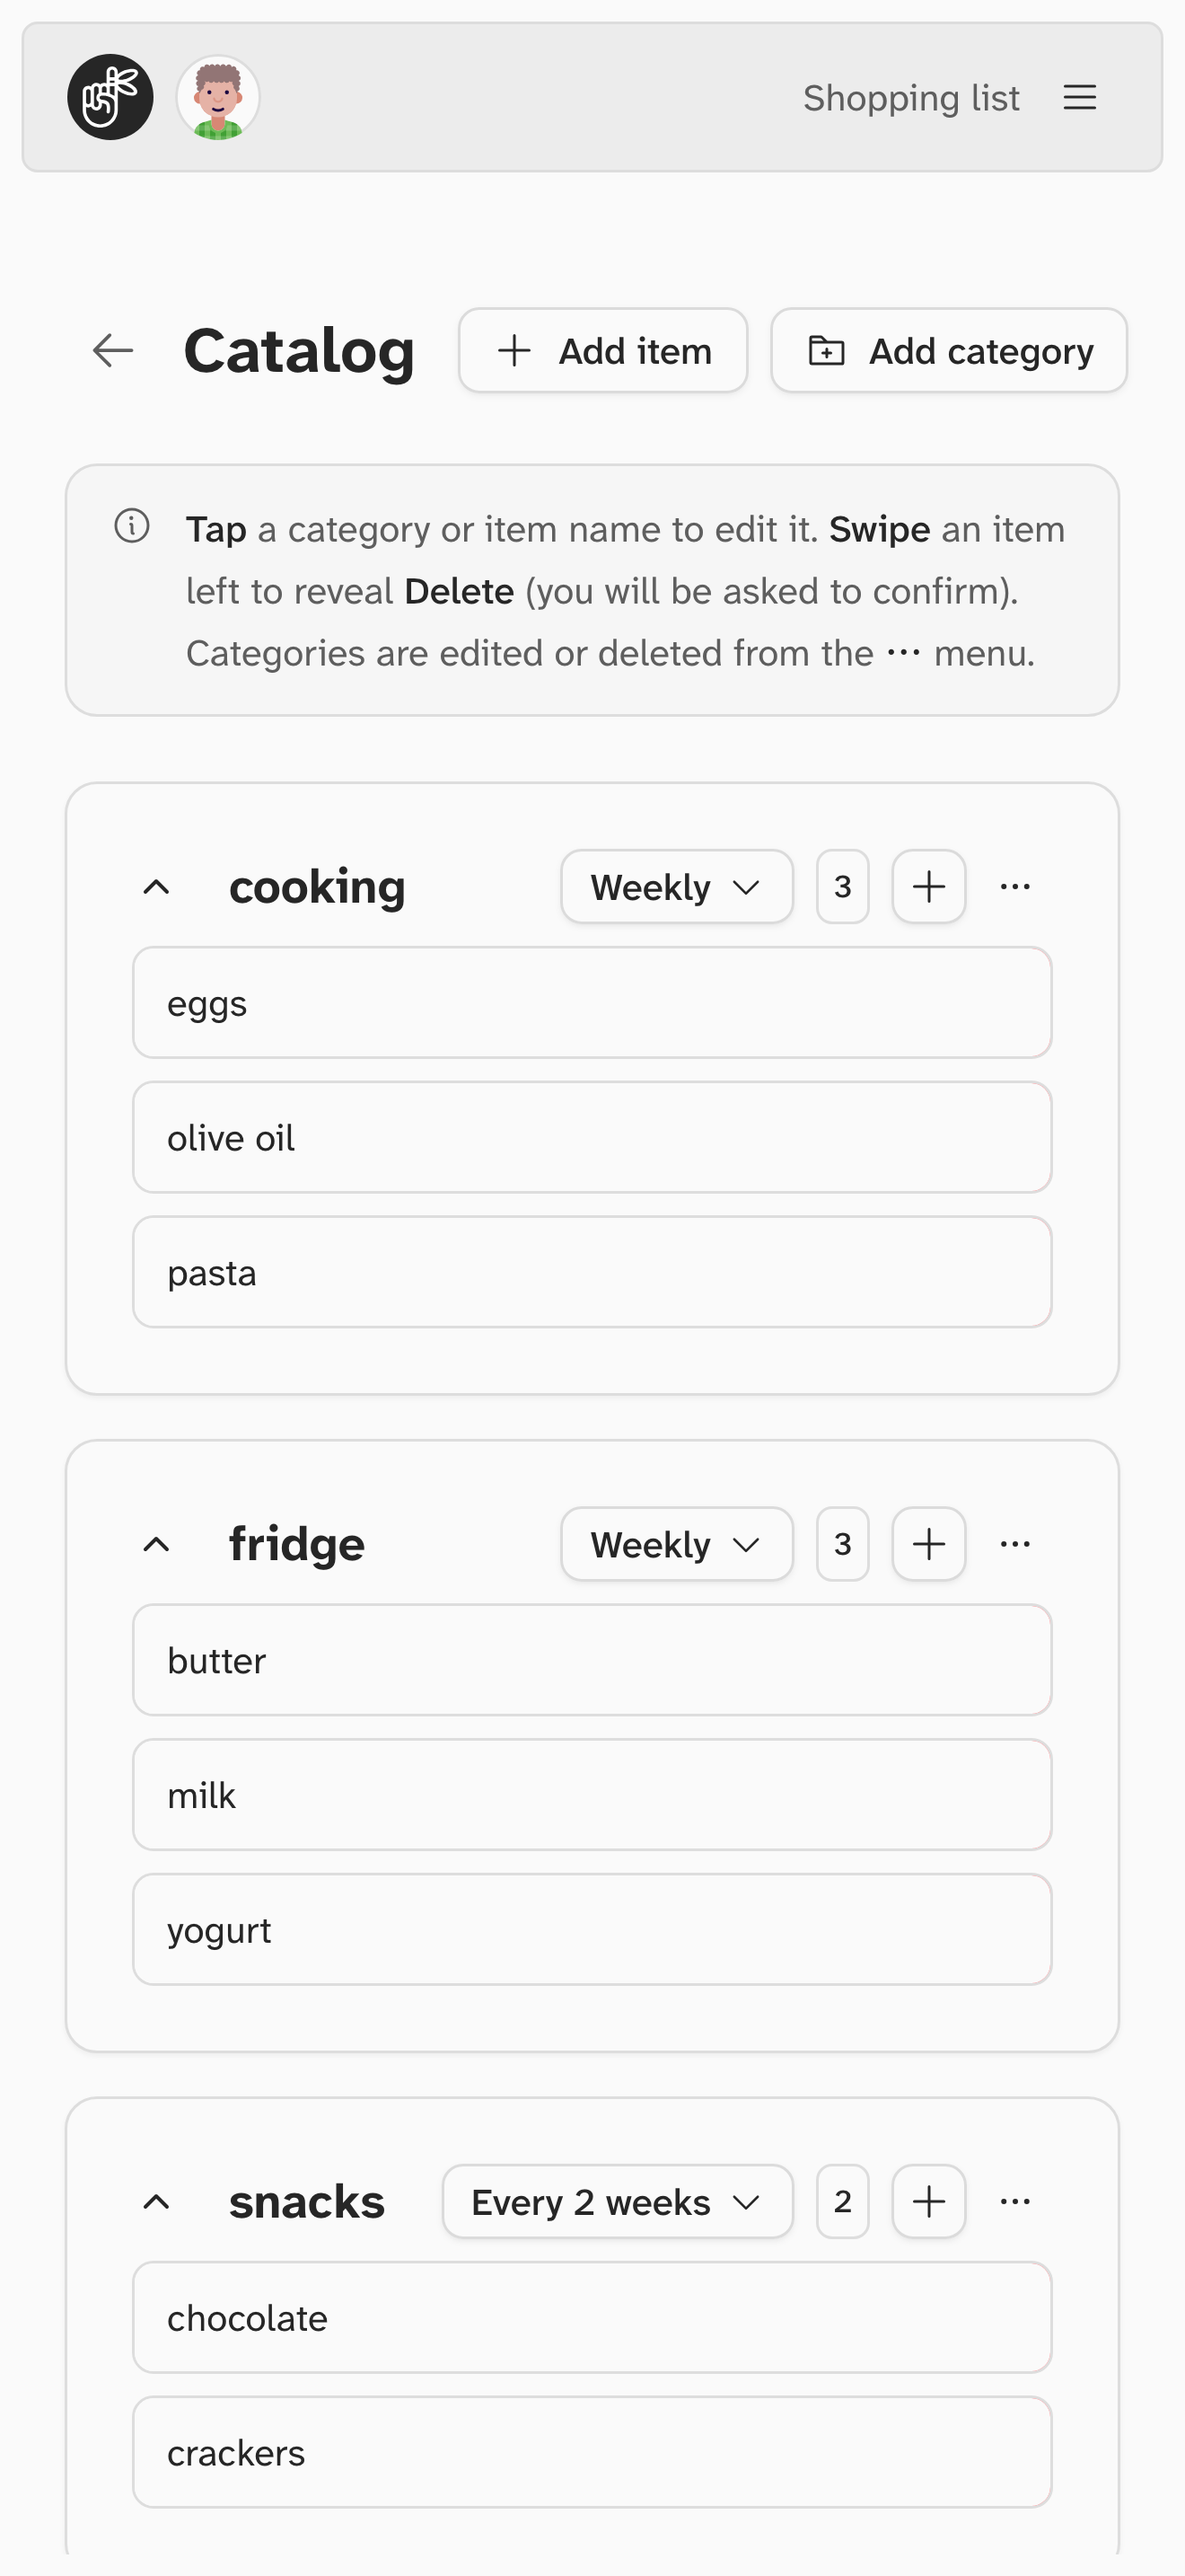
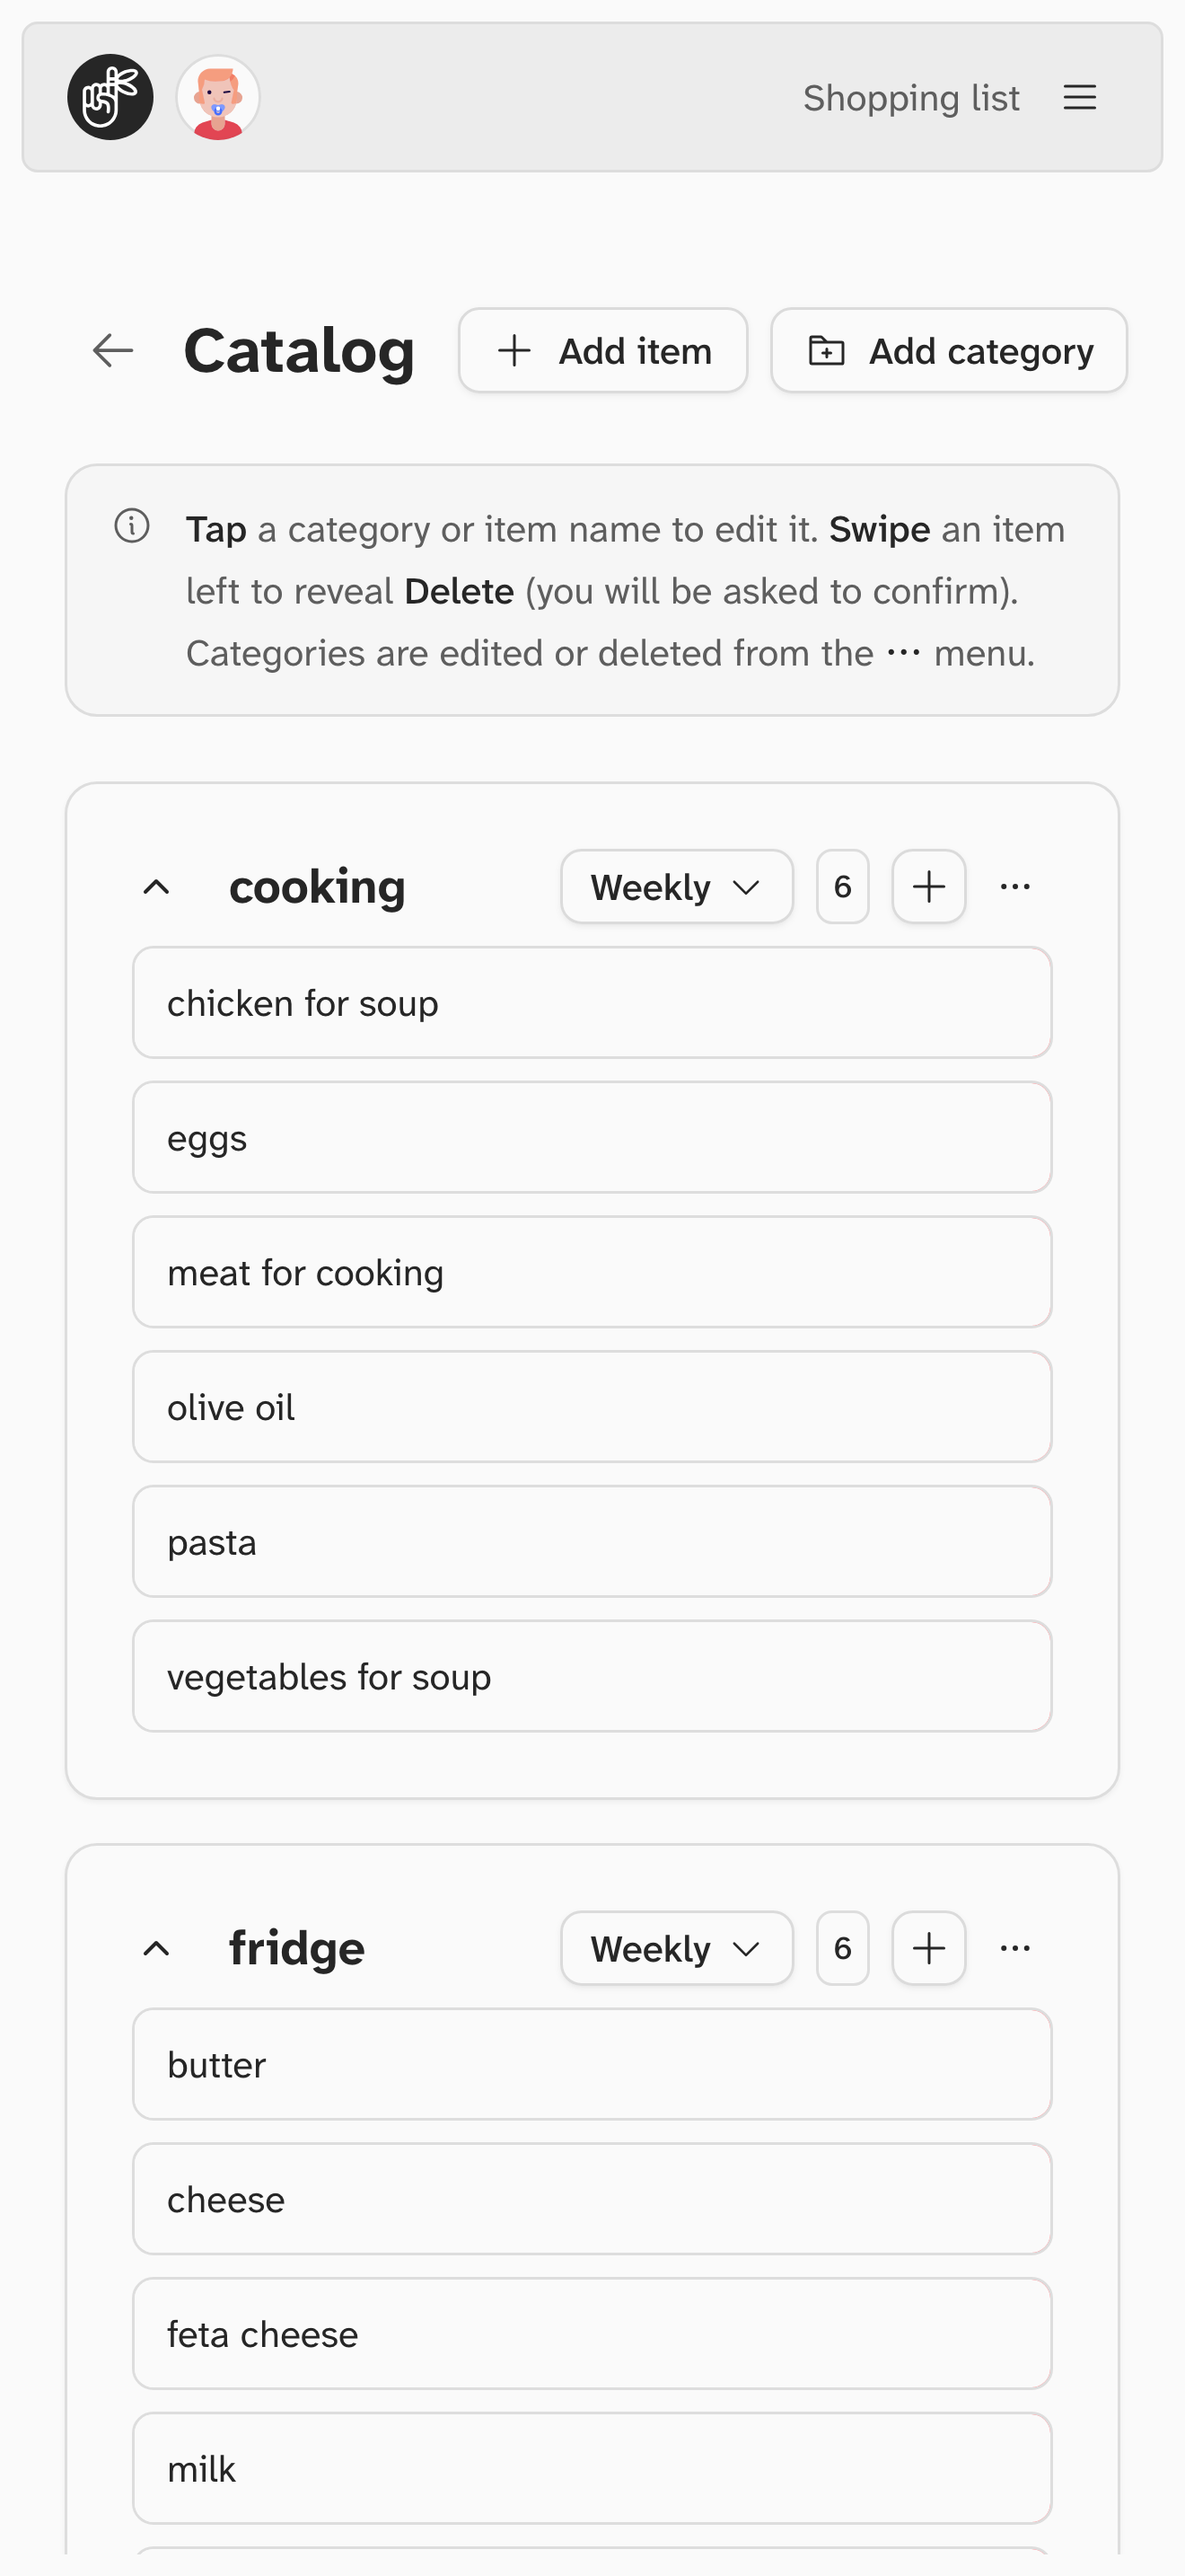
chore: release v4.2.0

diff --git a/CHANGELOG.md b/CHANGELOG.md
@@ -2,6 +2,22 @@
 
 All notable changes to Remindit will be documented in this file.
 
+## v4.2.0 — 2026-09-01
+
+_A calmer, more consistent feel throughout — plus a richer starter catalog and a friendlier first run._
+
+### ✨ New Features
+
+- **A consistent motion language**: the whole app now moves with one calm, tested motion system — catalog chips cascade in when you open a category, list items enter and exit smoothly, and the install and update prompts slide up from the bottom instead of popping in. If your device prefers reduced motion, everything still lands, just instantly
+- **Richer starter catalog**: the Minimal starter dataset now includes 14 more everyday groceries (three per category), so a fresh install feels lived-in and the recommendations have more to learn from
+
+### 🔧 Improvements
+
+- **A more inviting first look**: on a fresh install the catalog now opens with its first two categories expanded (previously one), so the panel reads as populated right away
+- **Reset & reseed with confidence**: the reset flow now shows a busy state while it works and a confirmation before you're sent back to your freshly seeded list
+- **Onboarding polish**: the Next button on the welcome and profile steps is now the primary action, aligned to the right where your thumb expects it
+- **A dedicated welcome video**: the onboarding's opening step now embeds its own shorter, calmer demo video
+
 ## v4.1.0 — 2026-08-31
 
 _The catalog now shows how many recommendations each category holds — and the Help page got more accurate._
